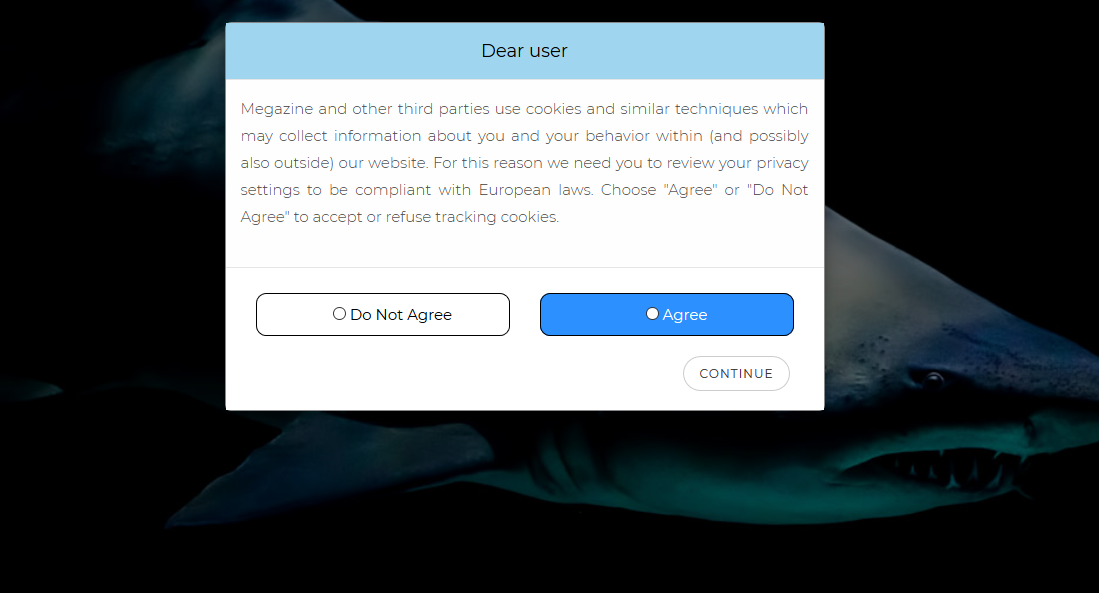
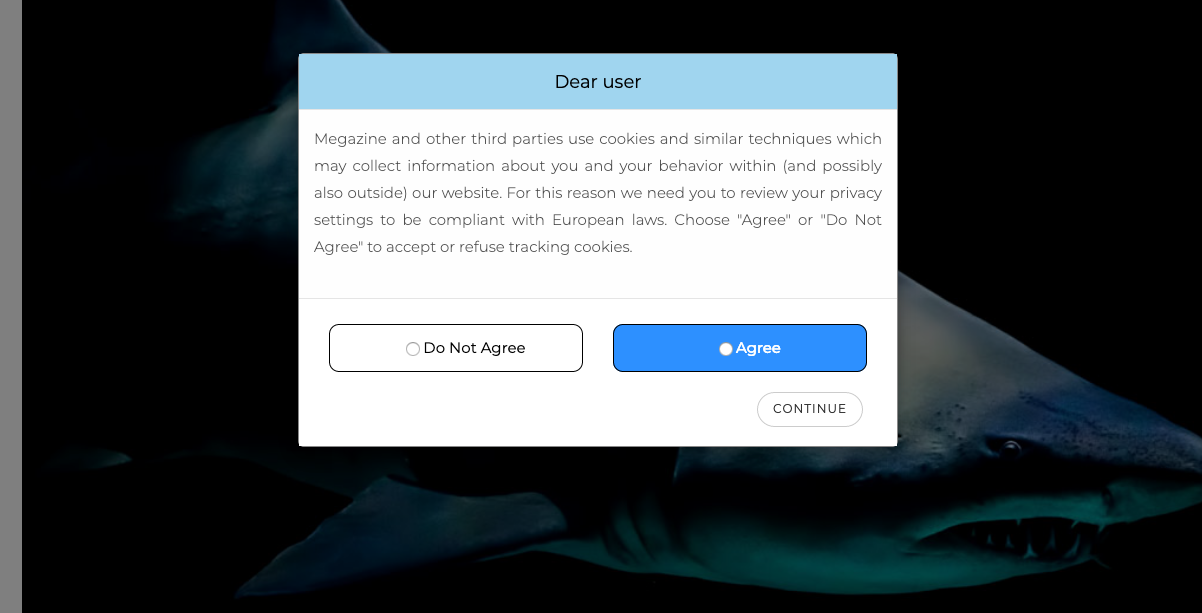
make all buttons have the same margins in the consent statements

diff --git a/website/templates/newswebsite_templates/webmag/index.html b/website/templates/newswebsite_templates/webmag/index.html
@@ -52,11 +52,11 @@
 	                        <div class="row">
 	                            <div class="col-6 col-sm-6">
 	                                <div class="boxed checkbox">
-	                                    <label class="step step-1">
+	                                    <label class="step step-1" style="margin-bottom: .25rem;">
 	                                        <input class="step step-1" data-step="1" type="radio" name="consentForm" id="MO" value="MO">
 	                                        Manage options
 	                                    </label>
-	                                    <label class="step step-2">
+	                                    <label class="step step-2" style="margin-bottom: .25rem;">
 	                                        <input class="step step-2" data-step="2" type="radio" name="consentForm" id="DNA" value="DNA">
 	                                        Do Not Agree
 	                                    </label>
@@ -64,7 +64,7 @@
 	                            </div>
 	                            <div class="col-6 col-sm-6">
 	                                <div class="boxed checkbox aesthetic-manipulation step step-1">
-	                                    <label class="step step-1">
+	                                    <label class="step step-1" style="margin-bottom: .25rem;">
 	                                        <input class="step step-1" data-step="1" type="radio" name="consentForm" id="A" value="A" checked>
 	                                        Agree
 	                                    </label>

diff --git a/website/templates/newswebsite_templates/technews/index.html b/website/templates/newswebsite_templates/technews/index.html
@@ -58,11 +58,11 @@
                     <div class="row">
                         <div class="col-6 col-sm-6">
                             <div class="boxed checkbox">
-                                <label class="step step-1">
+                                <label class="step step-1" style="margin-bottom: .25rem;">
                                     <input class="step step-1" data-step="1" type="radio" name="consentForm" id="MO" value="MO">
                                     Manage options
                                 </label>
-                                <label class="step step-2">
+                                <label class="step step-2" style="margin-bottom: .25rem;">
                                     <input class="step step-2" data-step="2" type="radio" name="consentForm" id="DNA" value="DNA">
                                     Do Not Agree
                                 </label>
@@ -70,7 +70,7 @@
                         </div>
                         <div class="col-6 col-sm-6">
                             <div class="boxed checkbox step step-1">
-                                <label class=" step step-1">
+                                <label class=" step step-1" style="margin-bottom: .25rem;">
                                     <input class="step step-1" data-step="1" type="radio" name="consentForm" id="A" value="A" checked>
                                     Agree
                                 </label>

diff --git a/website/templates/newswebsite_templates/megazine/index.html b/website/templates/newswebsite_templates/megazine/index.html
@@ -69,7 +69,7 @@
 						<div class="row">
 							<div class="col-6 col-sm-6">
 								<div class="boxed checkbox">
-									<label>
+									<label style="margin-bottom: .25rem;">
 										<input type="radio" name="consentForm" id="DNA" value="DNA">
 										Do Not Agree
 									</label>
@@ -77,7 +77,7 @@
 							</div>
 							<div class="col-6 col-sm-6">
 								<div class="boxed checkbox aesthetic-manipulation">
-									<label>
+									<label style="margin-bottom: .25rem;">
 										<input type="radio" name="consentForm" id="A" value="A">
 										Agree
 									</label>

diff --git a/website/static/newswebsite_static/viral/style.css b/website/static/newswebsite_static/viral/style.css
@@ -1403,3 +1403,9 @@ textarea:focus {
     display: -ms-flexbox;
     -ms-flex-wrap: wrap;
 }
+
+label {
+	display: inline-block;
+	margin-bottom: .25rem;
+	margin-top: .25rem;
+}

diff --git a/website/static/newswebsite_static/motivemag/css/style.css b/website/static/newswebsite_static/motivemag/css/style.css
@@ -2642,3 +2642,9 @@ border: 1px solid #EAE5E5;
     color: red;
     text-align: center;
 }
+
+label {
+	display: inline-block;
+	margin-bottom: .25rem;
+	margin-top: .25rem;
+}

diff --git a/website/static/newswebsite_static/webmag/css/style.css b/website/static/newswebsite_static/webmag/css/style.css
@@ -1040,3 +1040,9 @@ RESPONSIVE
     color: red;
     text-align: center;
 }
+
+label {
+	display: inline-block;
+	margin-bottom: .25rem;
+	margin-top: .25rem;
+}

diff --git a/website/static/newswebsite_static/megazine/css/style.css b/website/static/newswebsite_static/megazine/css/style.css
@@ -1543,3 +1543,9 @@ article {
     color: red;
     text-align: center;
 }
+
+label {
+	display: inline-block;
+	margin-bottom: .25rem;
+	margin-top: .25rem;
+}

diff --git a/website/static/newswebsite_static/quitelight/common/styles.css b/website/static/newswebsite_static/quitelight/common/styles.css
@@ -2456,5 +2456,7 @@ footer i{ font-size: 1.4em; }
 }
 
 label {
-	margin-bottom: 0px;
+	display: inline-block;
+	margin-bottom: .25rem;
+	margin-top: .25rem;
 }

diff --git a/website/static/newswebsite_static/technews/assets/css/style.css b/website/static/newswebsite_static/technews/assets/css/style.css
@@ -1795,3 +1795,9 @@ section {
 .modal-title {
     color: #d6d6d6;
 }
+
+label {
+	display: inline-block;
+	margin-bottom: .25rem;
+	margin-top: .25rem;
+}

diff --git a/website/static/newswebsite_static/avision/styles/main_styles.css b/website/static/newswebsite_static/avision/styles/main_styles.css
@@ -1916,5 +1916,7 @@ section
 }
 
 label {
-	margin-bottom: 0px;
+	display: inline-block;
+	margin-bottom: .25rem;
+	margin-top: .25rem;
 }

diff --git a/website/static/newswebsite_static/techmag/styles/main_styles.css b/website/static/newswebsite_static/techmag/styles/main_styles.css
@@ -1900,5 +1900,7 @@ section
 }
 
 label {
-	margin-bottom: 0px;
+	display: inline-block;
+	margin-bottom: .25rem;
+	margin-top: .25rem;
 }
